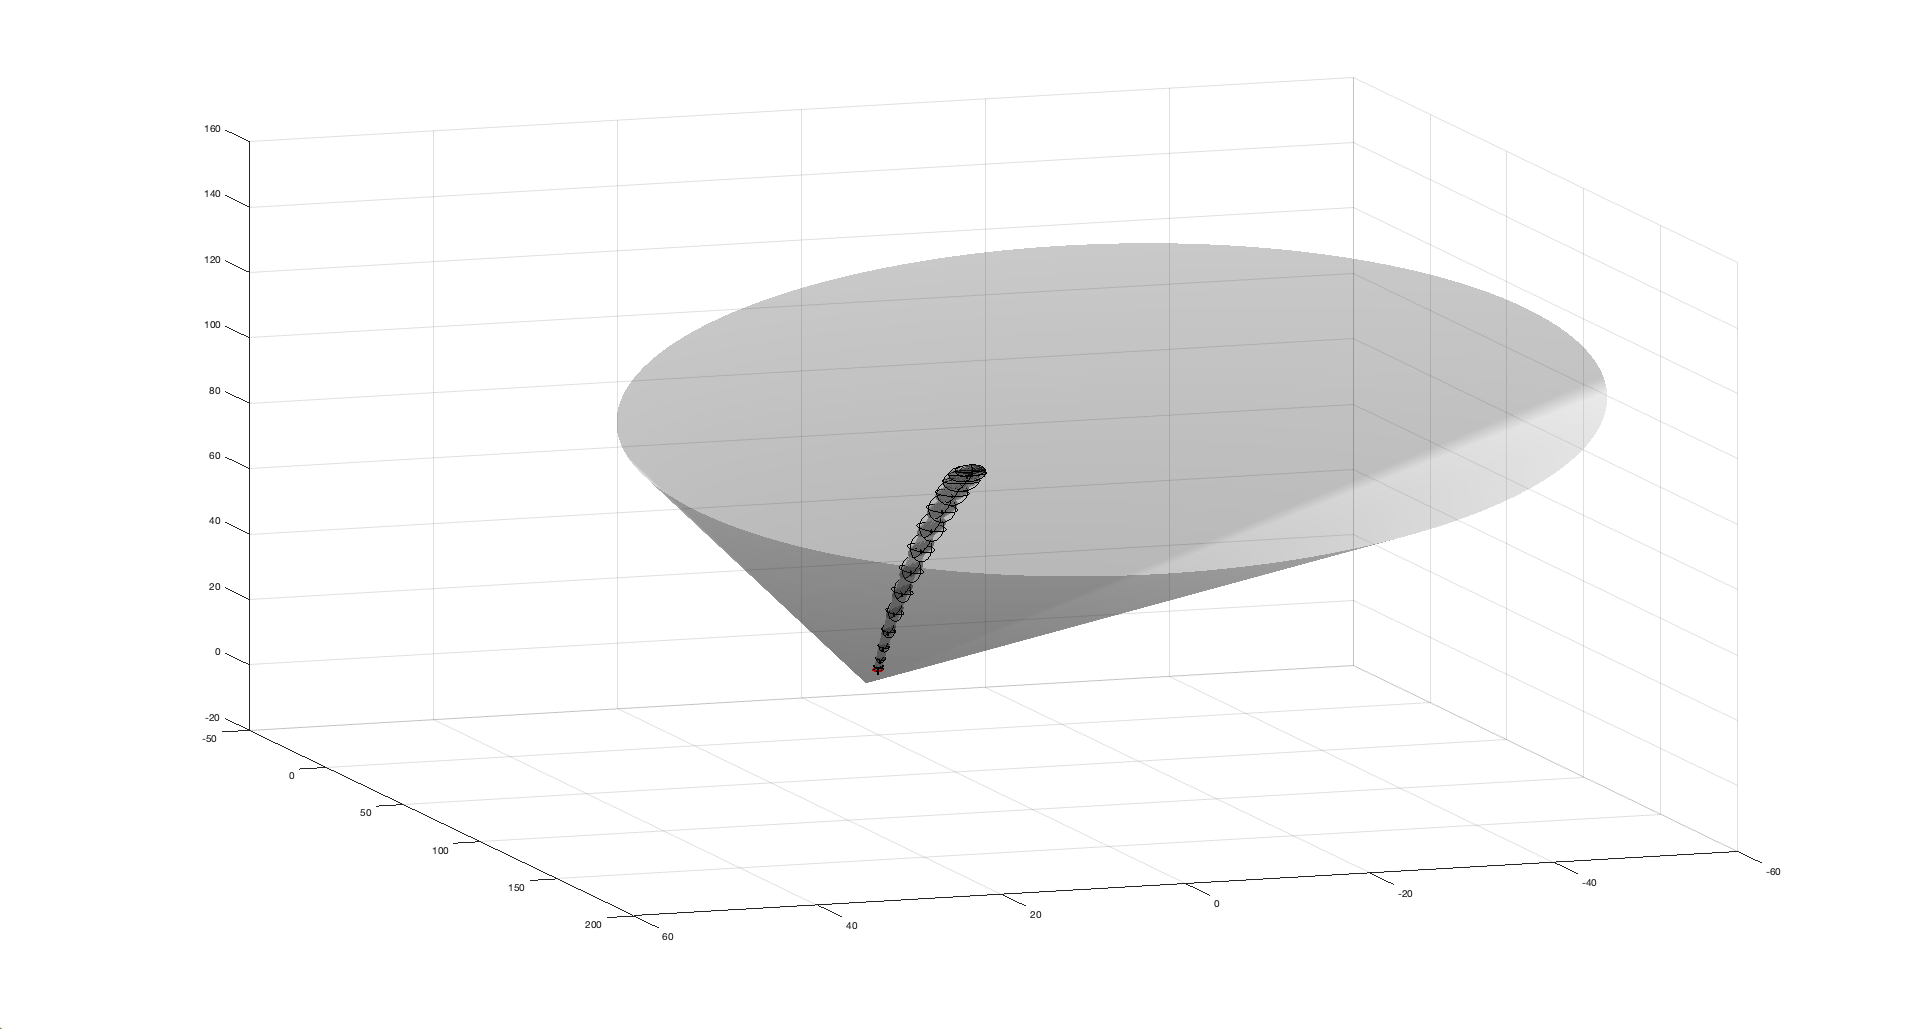
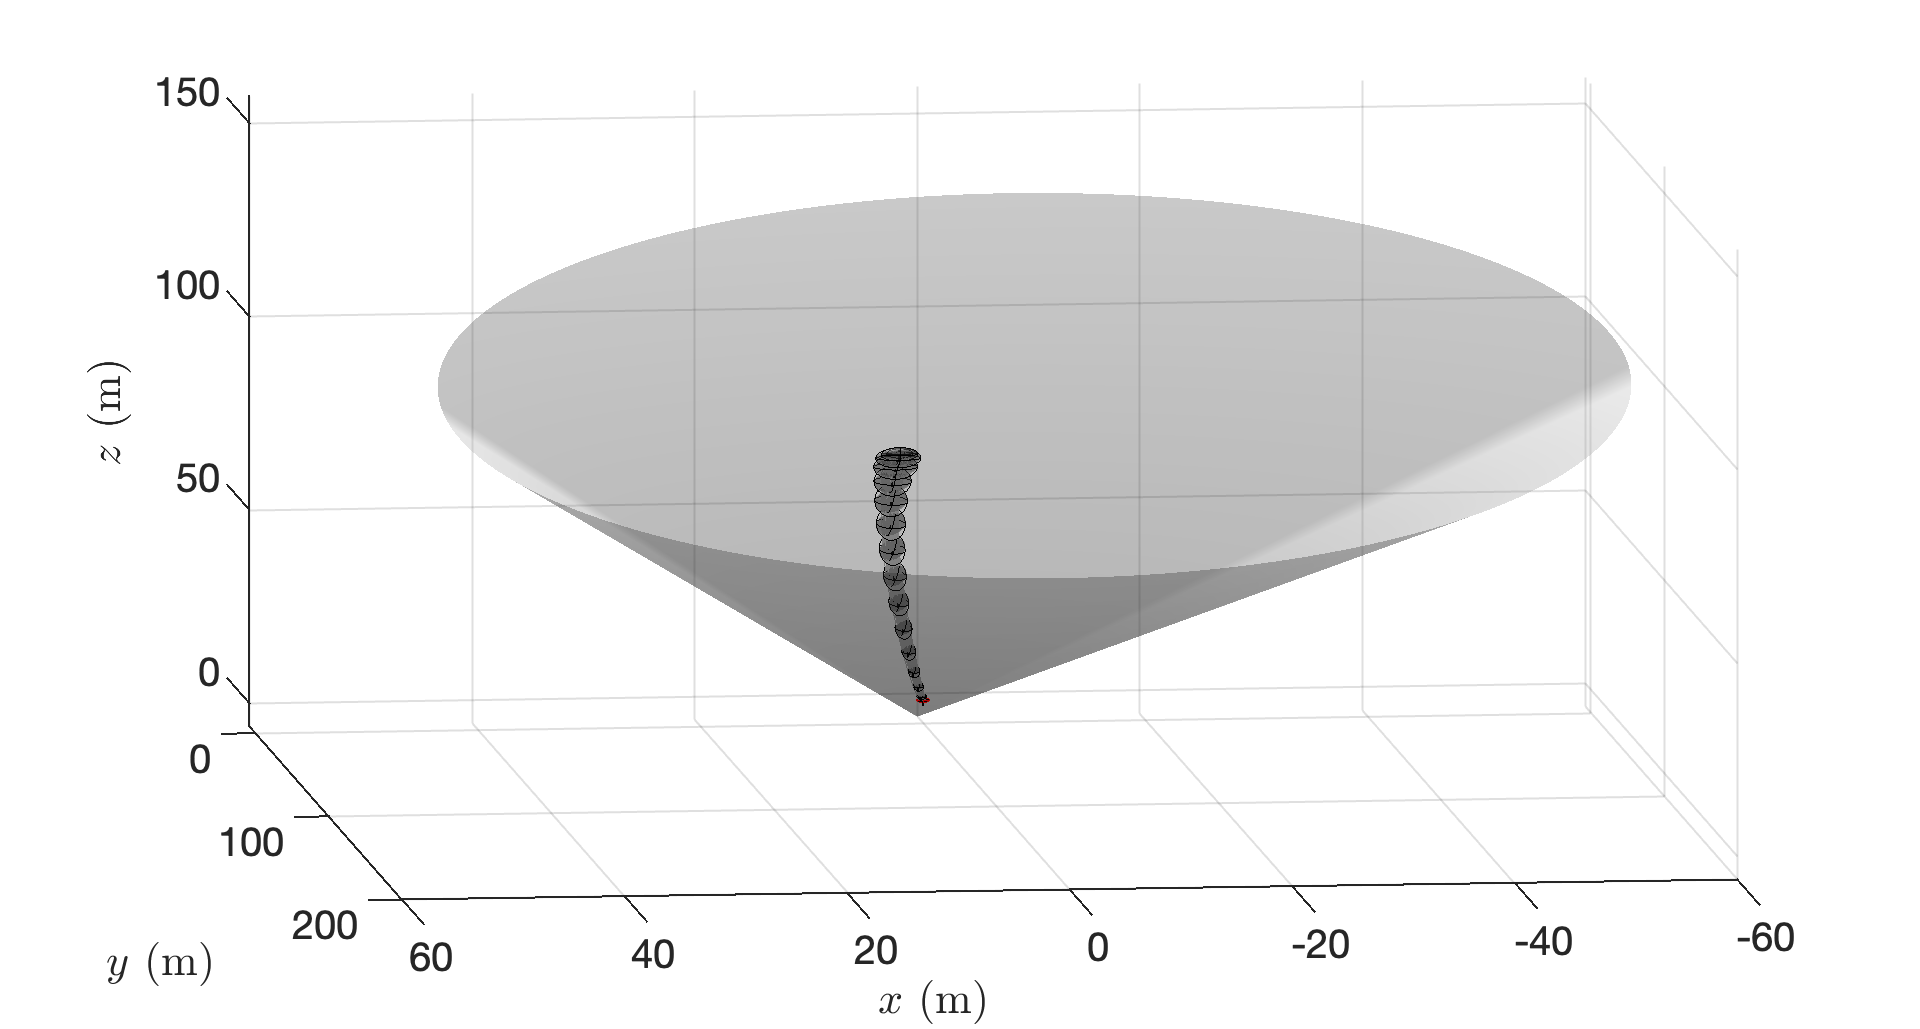
Cone Figures Updated

diff --git a/PostProcess3D_CC.m b/PostProcess3D_CC.m
@@ -29,6 +29,14 @@
     set(hSurface,'FaceColor',[0 0 1], ...
       'FaceAlpha',0.5,'FaceLighting','gouraud','EdgeColor','none');
     hold on;
+    xlabel('$x$ (m)','Interpreter','latex','FontSize',15); 
+    ylabel('$y$ (m)','Interpreter','latex','FontSize',15); 
+    zlabel('$z$ (m)','Interpreter','latex','FontSize',15);
+    a = findobj(gcf, 'type', 'axes');
+    h = findobj(gcf, 'type', 'line');
+    set(h, 'linewidth', 2);
+    set(a, 'linewidth', 2);
+    set(a, 'FontSize', 40);
   
     %% Plot optimal trajectories and covariance ellipsoids
     % Color for plotting
@@ -191,6 +199,11 @@
             plot(timeVec_u,-ones(1,N)*PS.umax,'--k','LineWidth',1);
             set(gca,'FontSize',11);
             %ylim([-(PS.umax+PS.umax/4),PS.umax+PS.umax/4]);
+            a = findobj(gcf, 'type', 'axes');
+            h = findobj(gcf, 'type', 'line');
+            set(h, 'linewidth', 2);
+            set(a, 'linewidth', 2);
+            set(a, 'FontSize', 40);
         end
         %%%%%%%%%%%%%%%%%%%%%%%%%%%%%%%%%%%%%%%%%%%%%%%%%%%%%%%
         

diff --git a/PostProcess_ConeConstraints_New.m b/PostProcess_ConeConstraints_New.m
@@ -18,8 +18,7 @@ function PostProcess_ConeConstraints_New(fignum,MCnum,V,K,PS)
     x_mroot = -sqrt(f1_psi .* y.^2 + f2_psi .* y + d^2);
     
     plot(x_proot,y,'k','LineWidth',2);
-    plot(x_mroot,y,'k','LineWidth',2);
-    
+    plot(x_mroot,y,'k','LineWidth',2);    
     ylim([-20 160]);
     
     % System parameters
